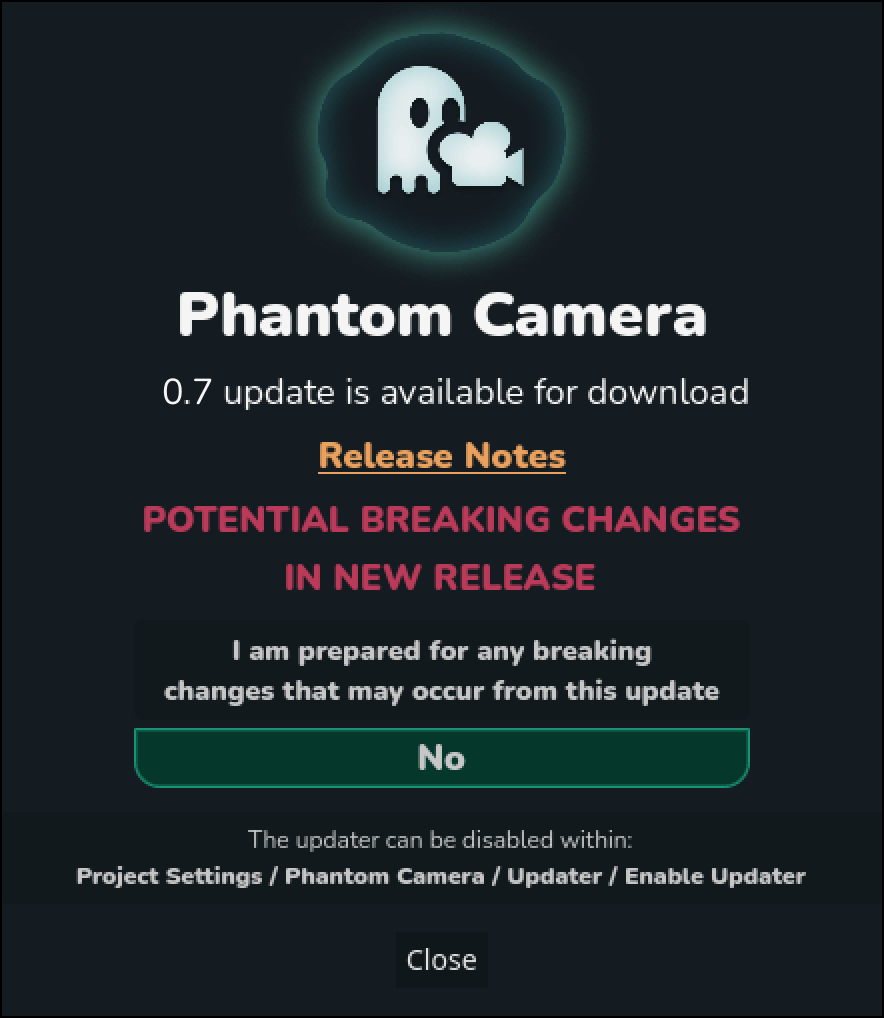
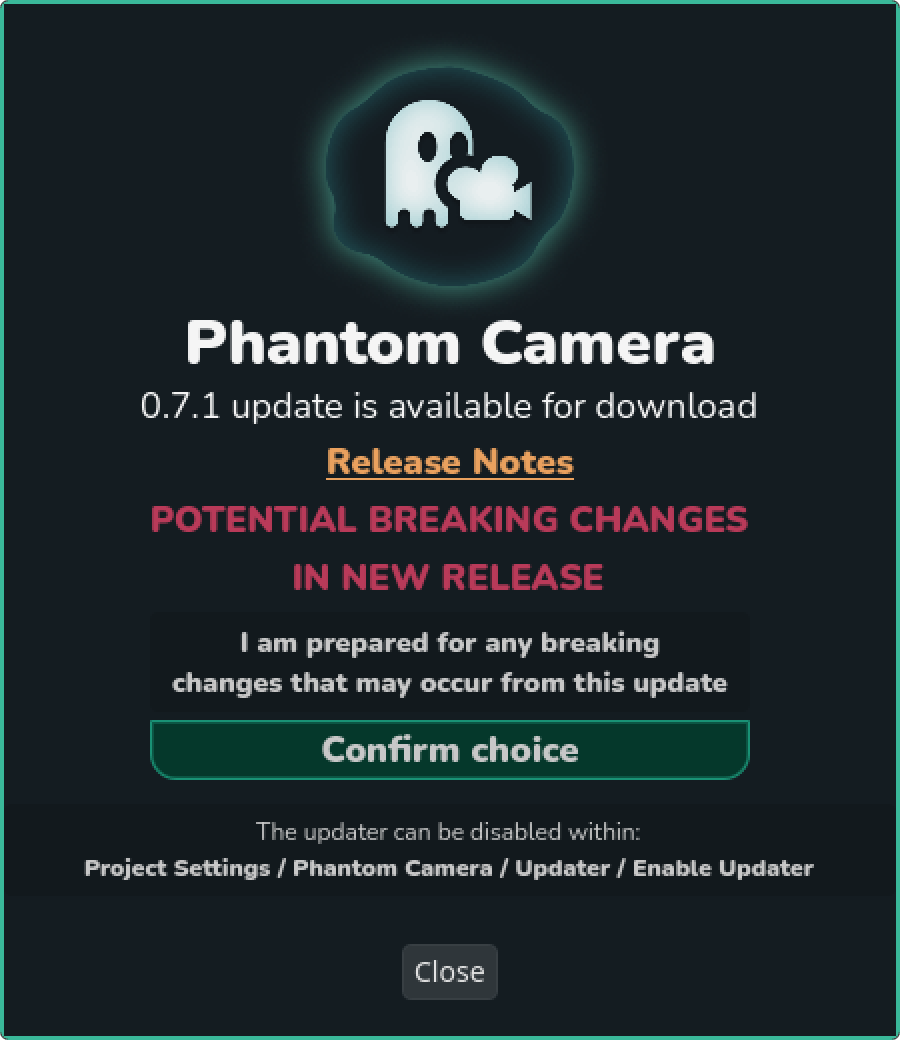
Updated editor updater text - [Added] New Editor Panel image assets - [Updated] Window image assets - [Removed] viewfinder image asset

Changed region(s): [[0.0, 0.0, 1.0, 1.0]]

diff --git a/docs/editor-updater.md b/docs/editor-updater.md
@@ -1,21 +1,27 @@
 <img src="/assets/icons/editor-updater.svg" height="256" width="256"/>
 
 # Editor Updater
-Whenever a new version of the addon gets released on [GitHub](https://github.com/ramokz/phantom-camera/releases), by default, a dialogue prompt will appear on start-up asking to update the addon to the latest release.
 
-::: warning NOTE
+::: tip Note
 If this is unwanted, then the updater [can also be disabled](#updater-settings).
 :::
+
+Whenever a new version of the addon gets released on [GitHub](https://github.com/ramokz/phantom-camera/releases), by default, the Phantom Camera panel, at the bottom of the editor window, will change color and show an update icon.
+
+![Editor Updater Panel](/assets/editor-updater/editor-updater-panel.png)
+
+Opening the panel will display an update button in the top right hand corner.
+
+![Editor Updater Viewfinder](/assets/editor-updater/editor-updater-panel-opened.png)
+
+
+Pressing the **Update available** button will then open the updater prompt.
 
 <div align="center">
 <img src="/assets/editor-updater/editor-updater-prompt-patch-hotfix.png" width="400" alt="Image example of editor updater prompt"/>
 </div>
 
-Selecting **UPDATE** will then download the latest release as a zip, unzip, remove the existing addon and replace the addon with the newly downloaded version. The editor will then need to be relaunched before the changes can go into proper effect.
-
-The prompt can also be reopened using the button found in the `Phantom Camera` panel located at the bottom of the editor.
-
-![Editor Updater Viewfinder](/assets/editor-updater/editor-updater-viewfinder.png)
+Pressing **Update** will download the latest release as a zip, unzip, remove the existing addon and replace the addon with the newly downloaded version. The editor will then need to be relaunched before the changes can go into proper effect.
 
 ::: tip FOR FORKS
 Forks of the project will **_not_** have an option to update the addon via the editor.
@@ -29,7 +35,8 @@ The updater will only check when a project is opened.
 
 
 ## Updater Prompt Variants
-The updater prompt can appear in two different variants, depending on what version would be updated to.
+The updater prompt can appear in two different variants depending on what version would be updated to.
+
 For smaller **Patch** and **Hotfix** releases, an update button will be visible straight away, while larger **Major** or **Minor** releases will require a dropdown menu to be checked before the update button can appear. This is to prevent accidentally updating the addon where potential breaking changes might be introduced.
 
 ::: warning KEY ADVICE 
@@ -88,5 +95,5 @@ You may have to enable `Advanced Settings` in the top right-hand corner for the 
 </table>
 
 ::: tip TIP
-The way a **Fork** and a **End User** project is being distinguished is by the inclusion of a scene in the `dev_scenes` directory in the root level of the project, which is only present in the development repo.
+The way a **Fork** and a **End User** project is being distinguished is by the inclusion of a scene in the `dev_scenes` directory in the root level of the project, which is only present in the development repository / forks.
 :::
